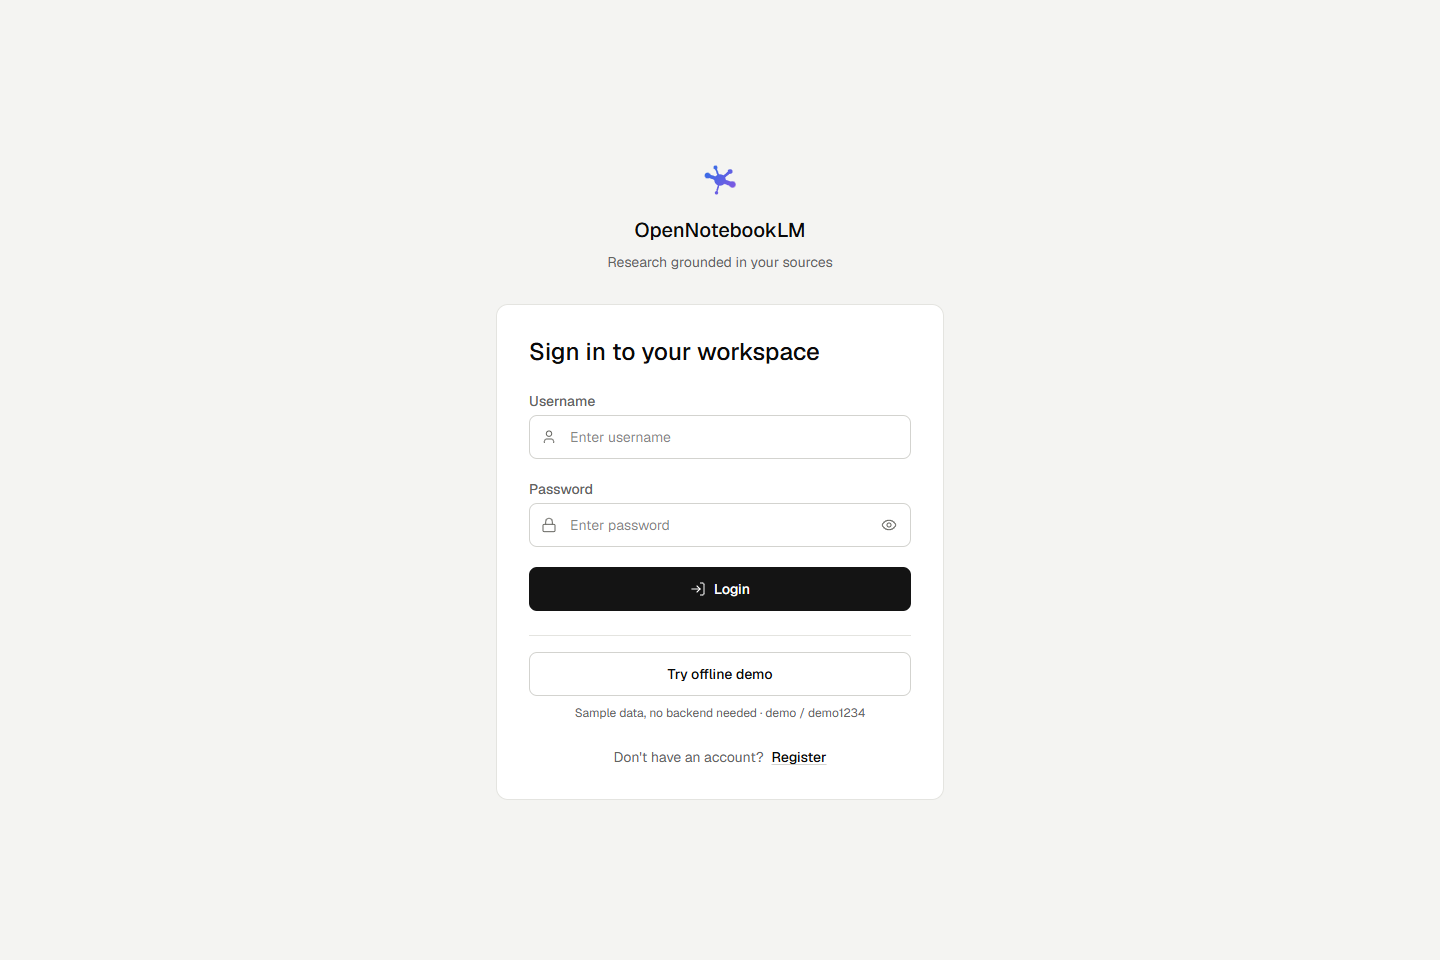
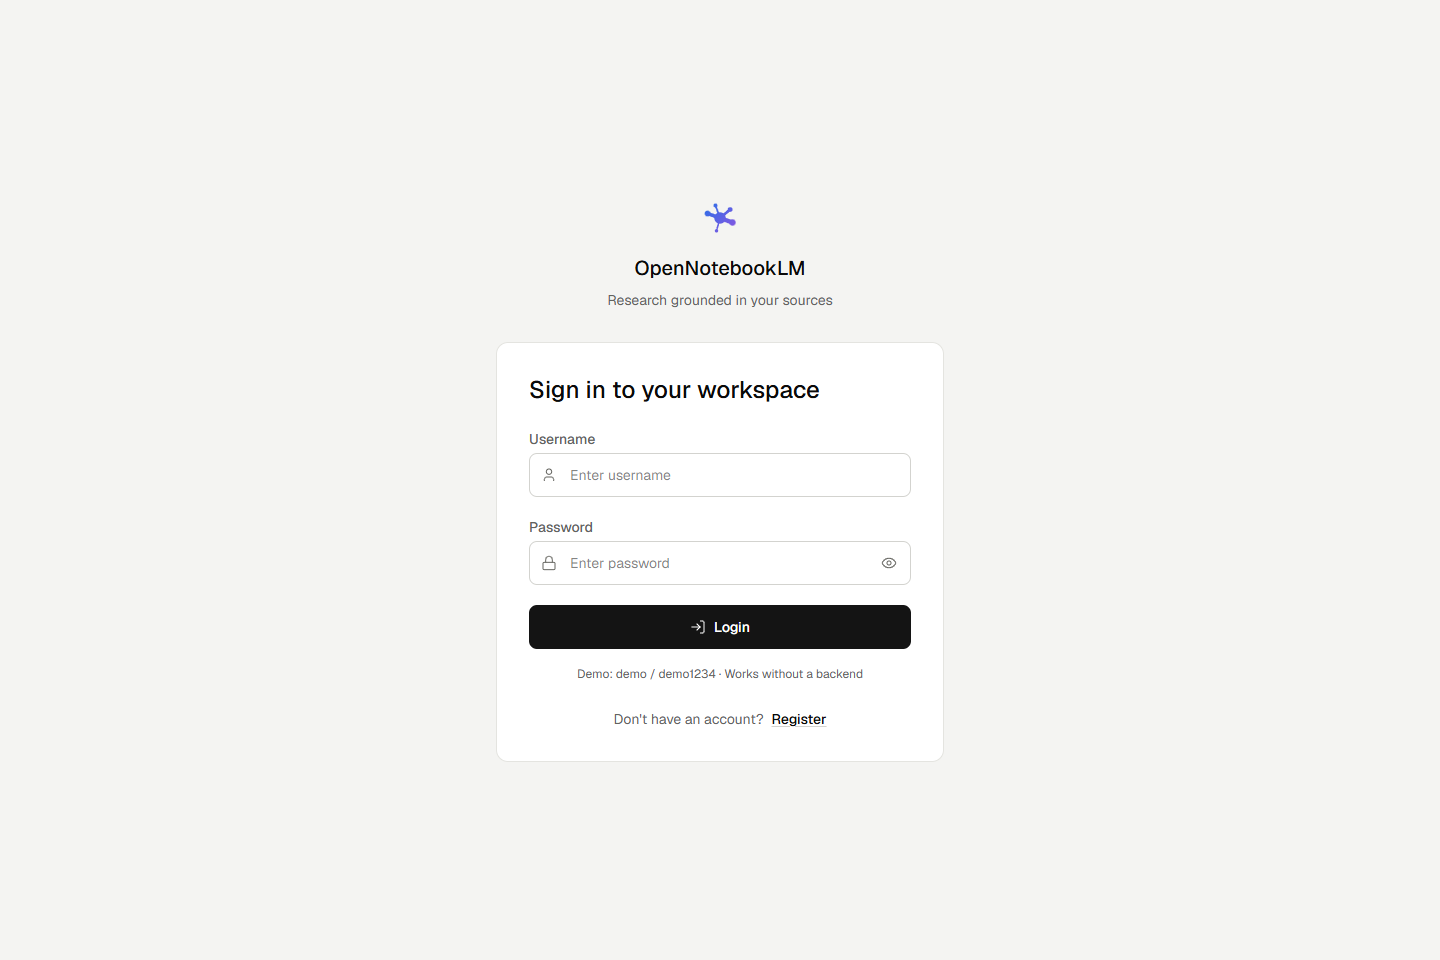
fix: use the regular login for the offline demo (#222)
Remove the separate demo entry button and retain a credentials hint. The existing Login form continues to use demo/demo1234 with unavailable-backend fallback. Update the regression test, documentation, and screenshot.

Verified with 744 tests, lint, type checks, production build, blocked-backend browser checks, and passing CI.

Refs #220.

Changed region(s): [[0.3438, 0.2188, 0.6562, 0.8125]]

diff --git a/frontend/app/login/page.tsx b/frontend/app/login/page.tsx
@@ -342,19 +342,9 @@ export default function LoginPage() {
           </form>
 
           {isLogin && (
-            <div className="mt-6 border-t border-[var(--border)] pt-4">
-              <button
-                type="button"
-                disabled={loading}
-                onClick={enterOfflineDemo}
-                className="h-11 w-full rounded-lg border border-[var(--input)] text-sm font-medium hover:bg-[var(--muted)] disabled:opacity-50 transition-base"
-              >
-                Try offline demo
-              </button>
-              <p className="mt-2 text-center text-xs leading-relaxed text-[var(--muted-foreground)]">
-                Sample data, no backend needed · demo / demo1234
-              </p>
-            </div>
+            <p className="mt-4 text-center text-xs leading-relaxed text-[var(--muted-foreground)]">
+              Demo: demo / demo1234 · Works without a backend
+            </p>
           )}
 
           {/* Toggle Login/Register */}

diff --git a/frontend/app/login/page.test.tsx b/frontend/app/login/page.test.tsx
@@ -51,14 +51,11 @@ afterEach(() => {
 
 
 describe('login page', () => {
-  it('opens the offline demo explicitly without authenticating against a backend', async () => {
+  it('shows demo credentials without a separate offline entry button', () => {
     vi.spyOn(api, 'getDemoAccount').mockResolvedValue(null);
-    const login = vi.spyOn(api, 'login');
     render(<LoginPage />);
-    fireEvent.click(screen.getByRole('button', { name: 'Try offline demo' }));
-    await waitFor(() => expect(push).toHaveBeenCalledWith('/'));
-    expect(isOfflineDemoSession()).toBe(true);
-    expect(login).not.toHaveBeenCalled();
+    expect(screen.queryByRole('button', { name: 'Try offline demo' })).toBeNull();
+    expect(screen.getByText(/demo \/ demo1234/)).toBeTruthy();
   });
 
   it.each([

diff --git a/README.md b/README.md
@@ -104,8 +104,9 @@ background queue, with progress and failures shown in the workspace.
 
 ### Preview without a backend
 
-Choose **Try offline demo** to explore bundled sample sources, a cited answer,
-and a reading note. The **Offline demo** notice distinguishes this preview
+Sign in with **demo / demo1234** while the backend is unavailable to explore
+bundled sample sources, a cited answer, and a reading note. The **Offline demo**
+notice distinguishes this preview
 from a server account; it does not generate answers or save changes.
 
 ![Offline demo showing bundled sources, a cited answer, a sample note, and the persistent demo notice](.github/assets/screenshot-offline-demo.png)
@@ -200,11 +201,10 @@ docker compose ps
 | Database readiness | <http://localhost:8000/readyz> |
 
 For a local trial, the sign-in page offers **demo / demo1234** by default.
-For a frontend-only preview, choose **Try offline demo** on the sign-in page.
-It loads bundled sample sources, conversations, citations, and notes without
-FastAPI or Docker. The workspace labels this mode explicitly; uploads, changes,
-exports, and model generation require a running backend. Entering
-**demo / demo1234** also falls back to this preview when the backend is unavailable.
+When the backend is unavailable, the same credentials open a frontend-only
+preview with bundled sample sources, conversations, citations, and notes.
+The workspace labels this mode explicitly; uploads, changes, exports, and model
+generation require a running backend.
 
 Create a project, choose **Add Source**, wait for the source to become **Ready**,
 and ask your first question. Models download on first use, so the first import,

diff --git a/frontend/README.md b/frontend/README.md
@@ -15,10 +15,9 @@ The design polish follows [unslop](https://github.com/heydamir/unslop) by
 
 ## Getting Started
 
-For a frontend-only preview, open `/login` and choose **Try offline demo**.
-It loads bundled sample sources, a conversation with citations, and a note,
-without starting FastAPI or Docker. You can also enter **demo / demo1234**;
-if the backend is unreachable, sign-in falls back to the offline demo after
+For a frontend-only preview, open `/login`, enter **demo / demo1234**, and use
+the regular **Login** button. If the backend is unreachable, sign-in opens
+bundled sample sources, a conversation with citations, and a note after
 at most a two-second authentication wait. Rejected credentials still show an
 error, and ordinary accounts always authenticate through the backend.
 
